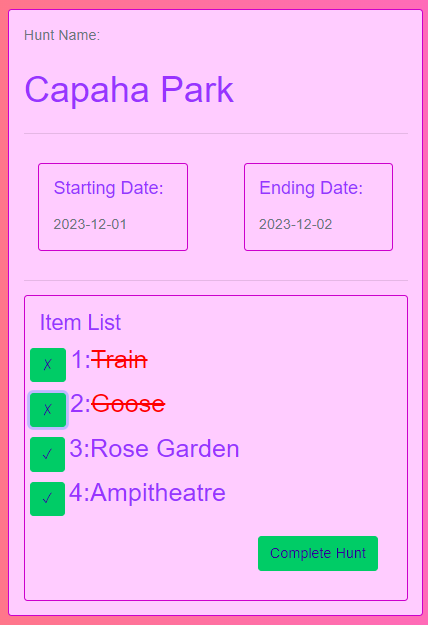
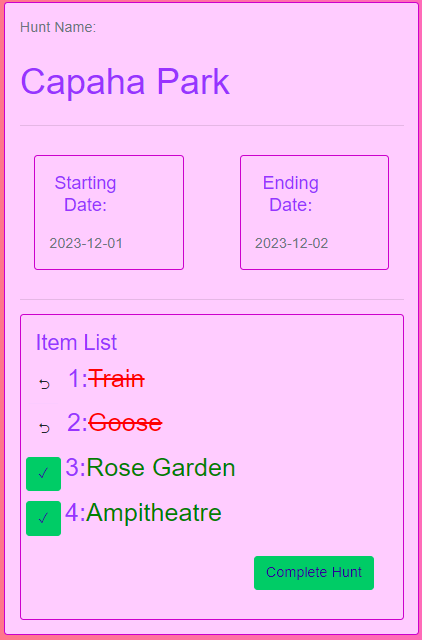
updated UI
Changed buttons in myHunts component. Updated Screenshot of it on landing page.
disabled GeoPoint

Changed region(s): [[0.0, 0.0, 1.0, 1.0], [0.0616, 0.2128, 0.4621, 0.4256], [0.5545, 0.2128, 0.9242, 0.4256]]

diff --git a/src/app/my-hunts/my-hunts.component.html b/src/app/my-hunts/my-hunts.component.html
@@ -67,7 +67,9 @@
 
                 <div >
                 <button type="button" class="btn btn-vapor-success check"
-                    (click)="onFind(i)">{{!item.huntStatus ? "✓" :"✗" }}</button>
+                    (click)="onFind(i)" *ngIf="!item.huntStatus"> ✓ </button>
+                <button type="button" class="btn check"
+                    (click)="onFind(i)" *ngIf="item.huntStatus"> ⮌ </button>
                 </div>
                 <label>
                   <h3>{{i+1}}:</h3>

diff --git a/src/app/create-hunts/create-hunts.component.html b/src/app/create-hunts/create-hunts.component.html
@@ -7,7 +7,7 @@
             <button type="button" class="btn btn-vapor-success" style="margin-right: 1em;"
               (click)="onBasic()">None</button>
             <button type="button" class="btn btn-vapor-warn" style="margin-right: 1em;"
-              (click)="onBasic()">GeoPoint</button>
+              (click)="onBasic()" disabled>GeoPoint</button>
           </div>
         </div>
       </ng-container>
